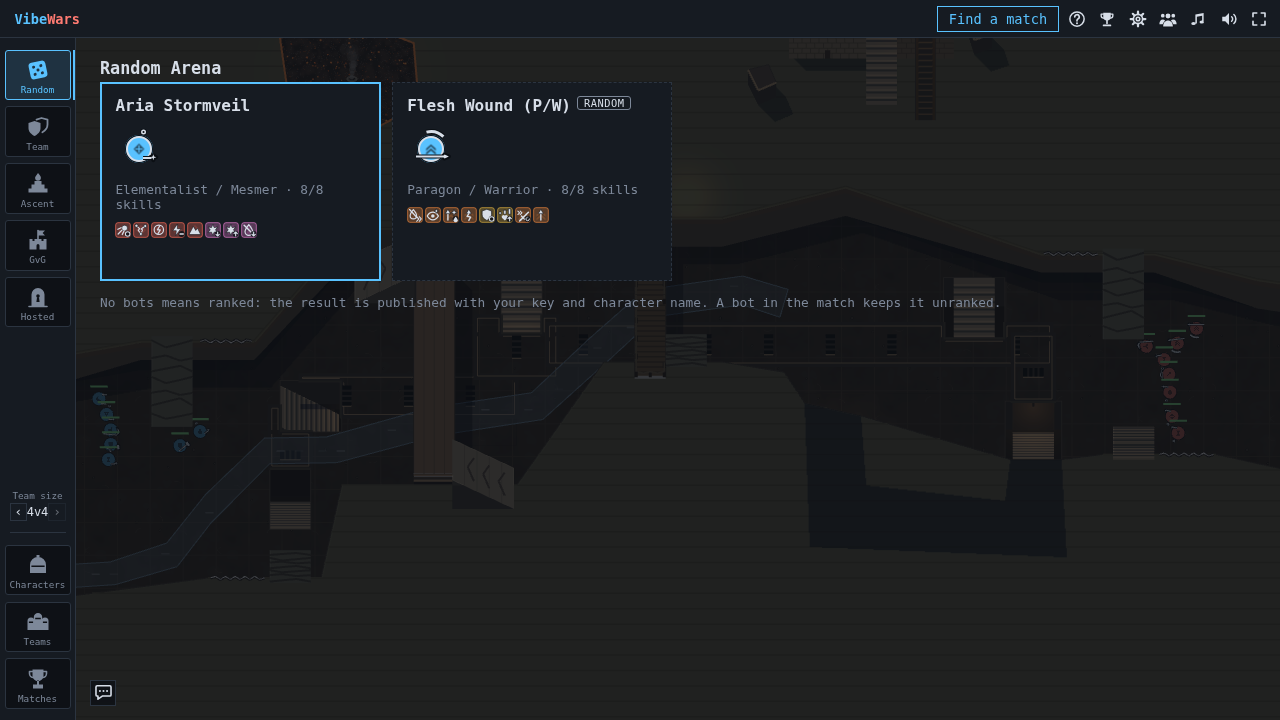
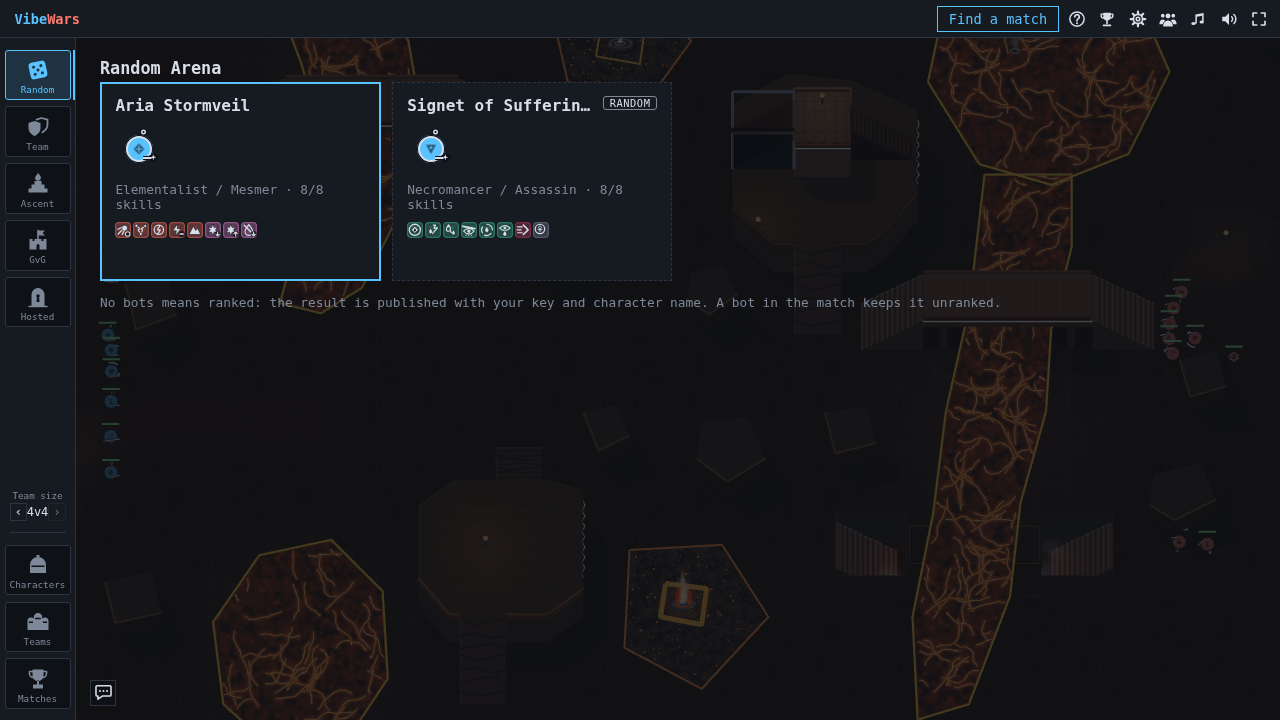
#3635: README: match, map and heights shots from a Hosted Game (Warden's Gallery, Broken Tower)

diff --git a/README.md b/README.md
@@ -13,7 +13,7 @@ fights at 20 Hz, hosted by one player's browser.
 character, then open your lobby (the lock in the title bar) and send its
 invite link to your friends. Nothing to install; see [Play it](#play-it).
 
-![The Random Arena screen with an Elementalist chosen, over the menu's live arena: the mode rail on the left, the character cards, Find a match in the top bar](docs/media/readme-menu.png)
+![A match on The Warden's Gallery: the hero by the central plinth, its stairs and lit floor, allies and enemies closing in, the skill bar below](docs/media/readme-match.png)
 
 A browser-based, minimalist, multiplayer PvP arena game mechanically
 inspired by Guild Wars 1 PvP — original implementation, original
@@ -116,6 +116,12 @@ Honest limits:
   everyone.
 
 ## Screenshots
+
+![The Warden's Gallery, wider: the raised plinths, the walls between them and the long walkway over the lower floor](docs/media/readme-map.png)
+
+![Broken Tower in play: a stair, torch light on the stone, and the dark lower path beside a raised wall-walk](docs/media/readme-heights.png)
+
+![The Random Arena screen with an Elementalist chosen, over the menu's live arena: the mode rail on the left, the character cards, Find a match in the top bar](docs/media/readme-menu.png)
 
 ![The build editor: an Elementalist/Mesmer with all eight skills on the bar, its attribute points spent, and the tooltip of Fireball open](docs/media/readme-editor.png)
 
